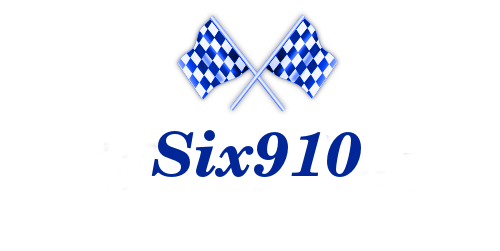
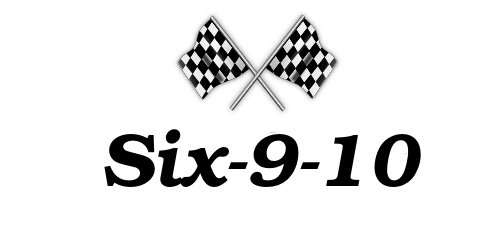
updates

diff --git a/README.md b/README.md
@@ -1,6 +1,6 @@
 ![](./six910.png)
 
-# Six910 (pronounced six nine ten)
+# Six-9-10
 
 ## [Swagger API Docs](http://api-swagger-docs.six910.com/swagger/index.html)
 
@@ -12,18 +12,18 @@
 https://hub.docker.com/r/ulboralabs/six910
 
 ### Project Status
-Six910 is currently a Release Candidate (RC) and currently running on multiple sites.
+Six-9-10 has released and currently running on multiple sites.
 
 ### The Speeding Fast Shopping Cart ECommerce System with Dependency Injection
 An open source Ecommerce platform server for building online shopping cart systems and will have a cryptocurrency payment module among others; it is written in golang. This project is the REST service backend. The UI project will including an admin panel and switchable templates.
 
-All components of Six910 are developed as Go modules and injected using dependency injection.
+All components of Six-9-10 are developed as Go modules and injected using dependency injection.
 
 
 
-This project is the REST implementation of the Six910 Ecommerce solution. 
+This project is the REST implementation of the Six-9-10 Ecommerce solution. 
 
-1. Users of the Six910, together with Six910 UI will be able to customize templates just like other hosted solutions.
+1. Users of the Six-9-10, together with Six-9-10 UI are able to customize templates just like other hosted solutions.
 2. Templates can either be written in Golang templating or use a JavaScript framework like Angular or React.
 3. REST services expose all cart functionality.
 
@@ -36,10 +36,10 @@ There will also be a template designer to make desiging templates much easier th
 
 ## Database
 ### The database module in injected using dependency injection in the main func.
-The default database for Six910 will be MySQL. The database module can be found [here](https://github.com/Ulbora/six910-mysql). The database interface, however is modular and can easily be switched out for any other database.
+The default database for Six-9-10 is MySQL. The database module can be found [here](https://github.com/Ulbora/six910-mysql). The database interface, however is modular and can easily be switched out for any other database.
 
 ## Addon Applications
-Six910 allows third party developers to build addon applications that integrate into templates.
+Six-9-10 allows third party developers to build addon applications that integrate into templates.
 
 
 
